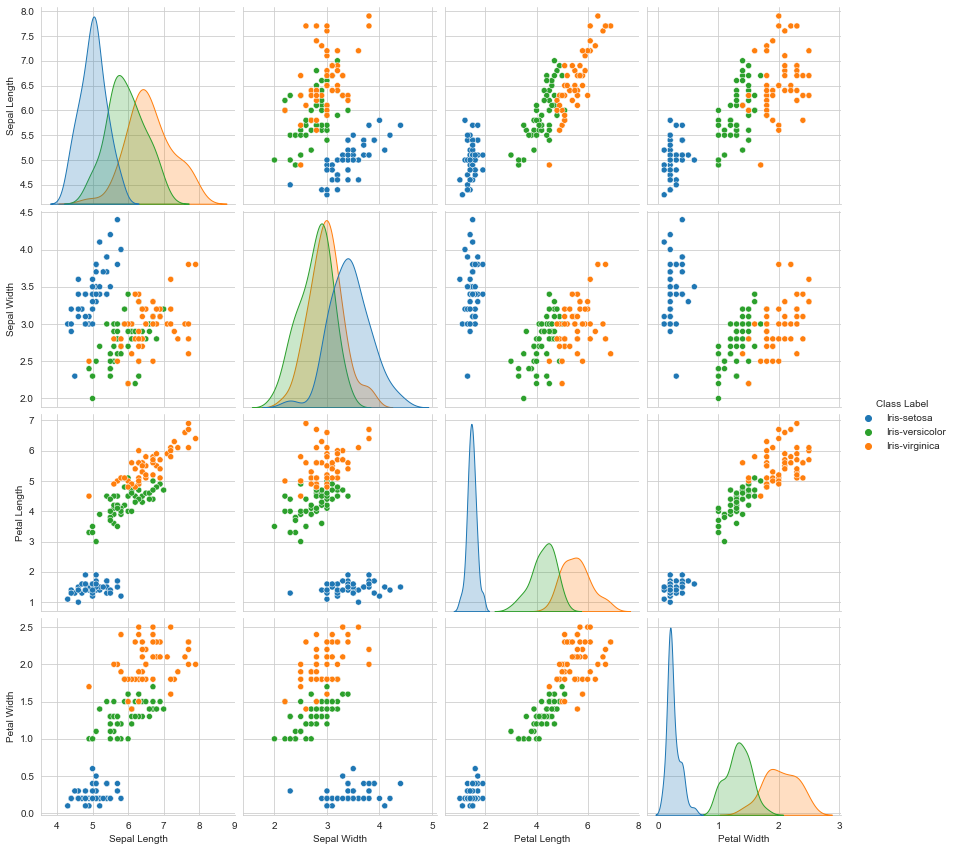
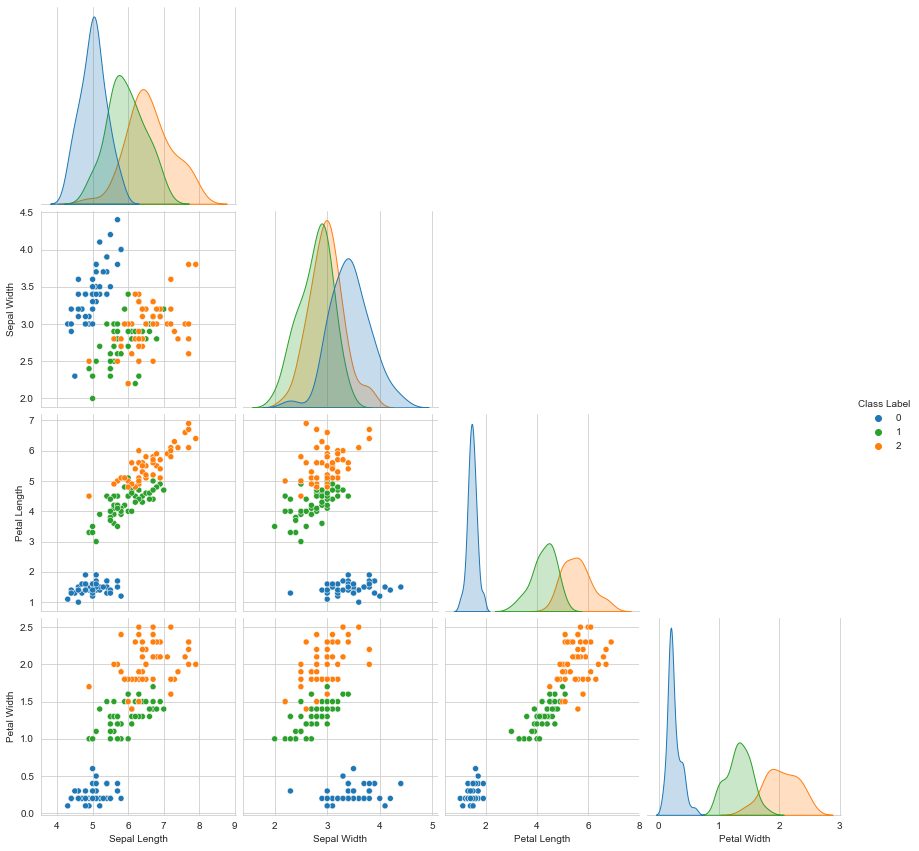
updates

diff --git a/Assignments/A2/q2.py b/Assignments/A2/q2.py
@@ -124,7 +124,7 @@ print("\nSVM with radial basis function kernel: ",np.sum(y_pred == d_test_y.asty
 
 # ## MLP with 16 nodes hidden layers
 print("\nMLP Classifer with one hidden layer of 16 nodes.........")
-model_1 = neural_network.MLPClassifier(hidden_layer_sizes =(16),solver='sgd',batch_size=32, alpha = 0.001,max_iter=2000,shuffle=False,random_state=2 )
+model_1 = neural_network.MLPClassifier(hidden_layer_sizes =(16),solver='sgd',batch_size=32, learning_rate_init = 0.001,max_iter=4000,shuffle=False,random_state=2 )
 model_1.fit(d_train_x,d_train_y)
 y_pred_one_layer = model_1.predict(d_test_x)
 print("\nAccuracy of One 16 node hidden layer MLP Classifier: ",np.sum(y_pred_one_layer == d_test_y.astype("int"))/d_test_y.shape)
@@ -133,7 +133,7 @@ accuracy_1 = np.sum(y_pred_one_layer == d_test_y.astype("int"))/d_test_y.shape
 
 # ## MLP with 256,16 nodes hidden layers
 print("\nMLP Classifer with two hidden layer of 256 and 16 nodes.........")
-model_2 = neural_network.MLPClassifier(hidden_layer_sizes =(256,16),solver='sgd',batch_size=32, alpha = 0.001,max_iter=2000,shuffle=False,random_state=2 )
+model_2 = neural_network.MLPClassifier(hidden_layer_sizes =(256,16),solver='sgd',batch_size=32, learning_rate_init = 0.001,max_iter=4000,shuffle=False,random_state=2 )
 model_2.fit(d_train_x,d_train_y)
 y_pred_two_layer = model_2.predict(d_test_x)
 print("\nAccuracy of 256,16 node hidden layer MLP Classifier: ",np.sum(y_pred_two_layer == d_test_y.astype("int"))/d_test_y.shape)
@@ -151,9 +151,9 @@ x=[]
 y = []
 for i in [0.00001,0.0001,0.001,0.01,0.1]:
     if accuracy_1 > accuracy_2:
-        model = neural_network.MLPClassifier(hidden_layer_sizes =(16),solver='sgd',batch_size=32, alpha = i,max_iter=2000 ,shuffle=False,random_state=2)
+        model = neural_network.MLPClassifier(hidden_layer_sizes =(16),solver='sgd',batch_size=32, learning_rate_init = i,max_iter=4000 ,shuffle=False,random_state=2)
     else:
-        model = neural_network.MLPClassifier(hidden_layer_sizes =(256,16),solver='sgd',batch_size=32, alpha = i,max_iter=2000,shuffle=False,random_state=2 )
+        model = neural_network.MLPClassifier(hidden_layer_sizes =(256,16),solver='sgd',batch_size=32, learning_rate_init = i,max_iter=4000,shuffle=False,random_state=2 )
     model.fit(d_train_x,d_train_y)
     y.append([model.n_iter_,model.loss_curve_])
     y_pred = model.predict(d_test_x)
@@ -165,15 +165,18 @@ for i in [0.00001,0.0001,0.001,0.01,0.1]:
 plt.title("Best MLP classifier Error vs number of iterations curve")
 plt.plot(np.arange(1, y[0][0]+1),y[0][1]);
 plt.xlabel("Number of iteration");
-plt.ylabel("Error for learning rate = 0.00001");
+plt.ylabel("Loss curve learning rate = 0.00001");
+plt.savefig("Learning_rate = 0.00001.png",bbox_inches='tight')
 plt.show()
+
 
 
 
 plt.title("Best MLP classifier Error vs number of iterations curve")
 plt.plot(np.arange(1, y[1][0]+1),y[1][1]);
 plt.xlabel("Number of iteration");
-plt.ylabel("Error learning rate = 0.0001");
+plt.ylabel("Loss curve learning rate = 0.0001");
+plt.savefig("Learning_rate = 0.0001.png",bbox_inches='tight')
 plt.show()
 
 
@@ -181,7 +184,8 @@ plt.show()
 plt.title("Best MLP classifier Error vs number of iterations curve")
 plt.plot(np.arange(1, y[2][0]+1),y[2][1]);
 plt.xlabel("Number of iteration");
-plt.ylabel("Error for learning rate = 0.001");
+plt.ylabel("Loss curve learning rate = 0.001");
+plt.savefig("Learning_rate = 0.001.png",bbox_inches='tight')
 plt.show()
 
 
@@ -189,7 +193,8 @@ plt.show()
 plt.title("Best MLP classifier Error vs number of iterations curve")
 plt.plot(np.arange(1, y[3][0]+1),y[3][1]);
 plt.xlabel("Number of iteration");
-plt.ylabel("Error for learning rate = 0.01");
+plt.ylabel("Loss curve learning rate = 0.01");
+plt.savefig("Learning_rate = 0.01.png",bbox_inches='tight')
 plt.show()
 
 
@@ -197,7 +202,8 @@ plt.show()
 plt.title("Best MLP classifier Error vs number of iterations curve")
 plt.plot(np.arange(1, y[4][0]+1),y[4][1]);
 plt.xlabel("Number of iteration");
-plt.ylabel("Error for learning rate = 0.1");
+plt.ylabel("Loss curve learning rate = 0.1");
+plt.savefig("Learning_rate = 0.1.png",bbox_inches='tight')
 plt.show()
 
 
@@ -206,6 +212,7 @@ plt.title("Best MLP classifier Accuracy vs learning rate curve")
 plt.plot(['0.00001','0.0001','0.001','0.01','0.1'],x);
 plt.xlabel("Learning Rate");
 plt.ylabel("Accuracy");
+plt.savefig("Accuracy vs learning_rate.png",bbox_inches='tight')
 plt.show()
 
 

diff --git a/Assignments/A2/q1.py b/Assignments/A2/q1.py
@@ -58,7 +58,7 @@ plt.show()
 
 
 sns.set_style("whitegrid");
-sns.pairplot(data,hue="Class Label",height=3,palette = ['tab:blue', 'tab:green', 'tab:orange']);
+sns.pairplot(data,hue="Class Label",height=3,palette = ['tab:blue', 'tab:green', 'tab:orange'],corner=True);
 plt.show()
 
 
@@ -75,6 +75,10 @@ pca = PCA(n_components=0.95)
 principalComponents = pca.fit_transform(x)
 print("Dimension of Data after PCA: ",principalComponents.shape)
 print("\n")
+
+d = np.concatenate((principalComponents,y),axis=1)
+df = pd.DataFrame(data = d,columns = ['column_1', 'column_2','output'])
+df.to_csv('PCA_data.csv',index = False);
 
 principalDf = pd.DataFrame(data = principalComponents
               ,columns = ['column_1', 'column_2'])
@@ -147,7 +151,7 @@ def runkMeans(X, cluster_rep, findClosestcluster_rep, computecluster_rep):
 def computeCost(X,cluster_rep,idx):
     sum = 0
     for i in range(X.shape[0]):
-        sum += np.linalg.norm(X[i] - cluster_rep[idx[i]])**2
+        sum += np.sum(np.power(X[i] - cluster_rep[idx[i]],2))**2
     return sum/X.shape[0]
 #the function calculates Jclust 
 
@@ -223,9 +227,6 @@ for K in range(2,9):
     print("\n")
 #run k means for randomly picking k data points as initial cluster representatives
 
-
-
-
 num_row = 7
 num_col = 1
 fig, axes = plt.subplots(num_row, num_col, figsize=(8,32))
@@ -246,33 +247,3 @@ plt.title("NMI vs K")
 plt.plot(range(2,9),nmi)
 plt.show()
 
-# ## PCA with original dataset of 4 features
-y = data["Class Label"].values
-x = data.drop("Class Label",axis = 1).to_numpy()
-print("\nK-Means on original dataset")
-
-
-cluster=[]
-id_x = []
-nmi = []
-for K in range(2,9): 
-    initial_cluster_rep = fromdatainitialise(x, K)
-    cluster_rep, idx,num = runkMeans(x, initial_cluster_rep,findClosestcluster_rep,computecluster_rep)
-    cost = computeCost(x,cluster_rep,idx)
-    
-    mut = mutual(y,idx,K,3)
-    nmi.append(2* (class_entropy(y,3)-mut)/(class_entropy(y,3) + cluster_entropy(idx,K)))
-    print("Normalised Mutual Information for k = ",K," ",nmi[K-2])
-    
-    cluster.append(cluster_rep)
-    id_x.append(idx)
-    print("Final Cost: {0:.10f}".format(cost))
-    print("\n")
-#run k means for randomly picking k data points as initial cluster representatives
-
-
-plt.xlabel("Number of clusters")
-plt.ylabel("NMI Score")
-plt.title("NMI vs K")
-plt.plot(range(2,9),nmi)
-plt.show()
